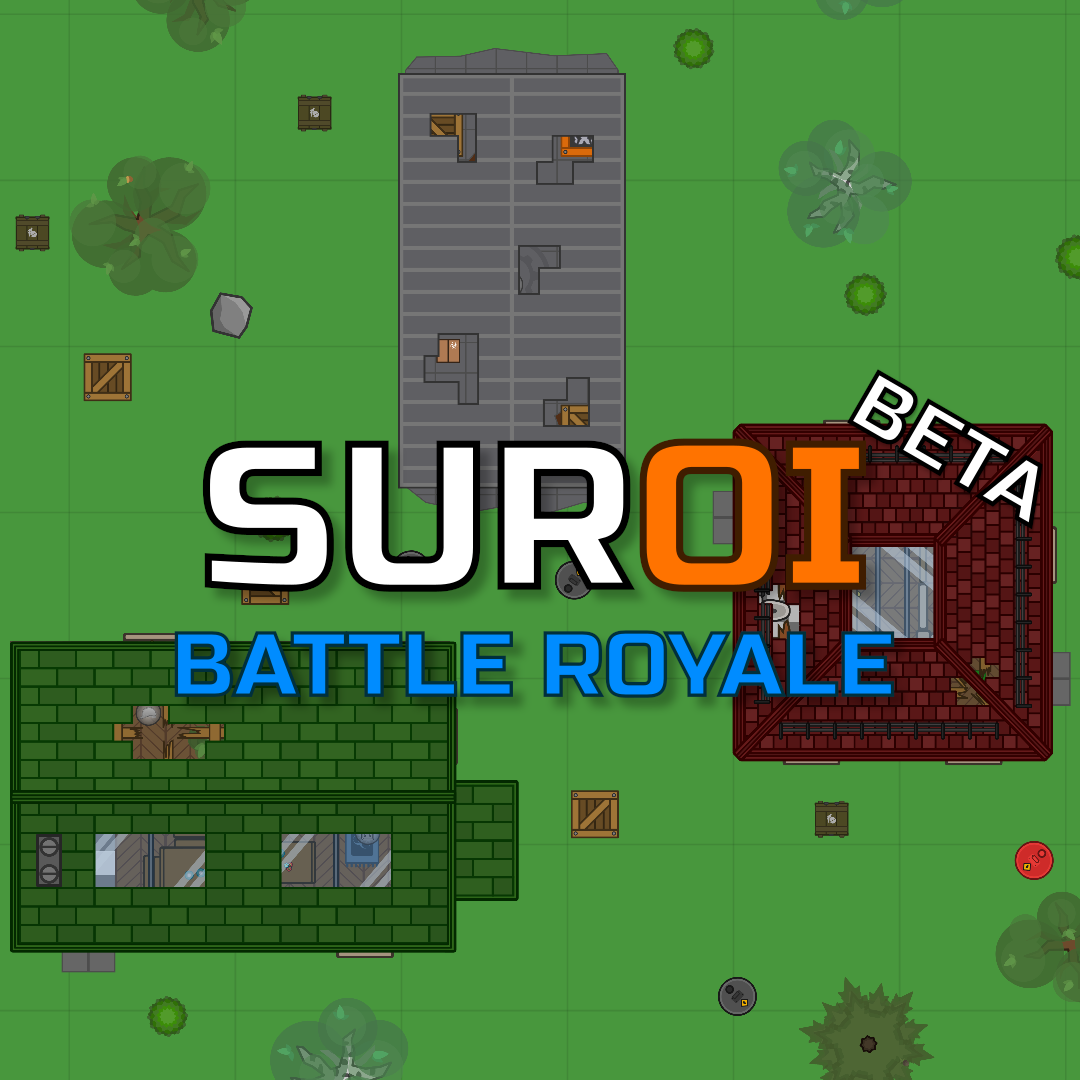
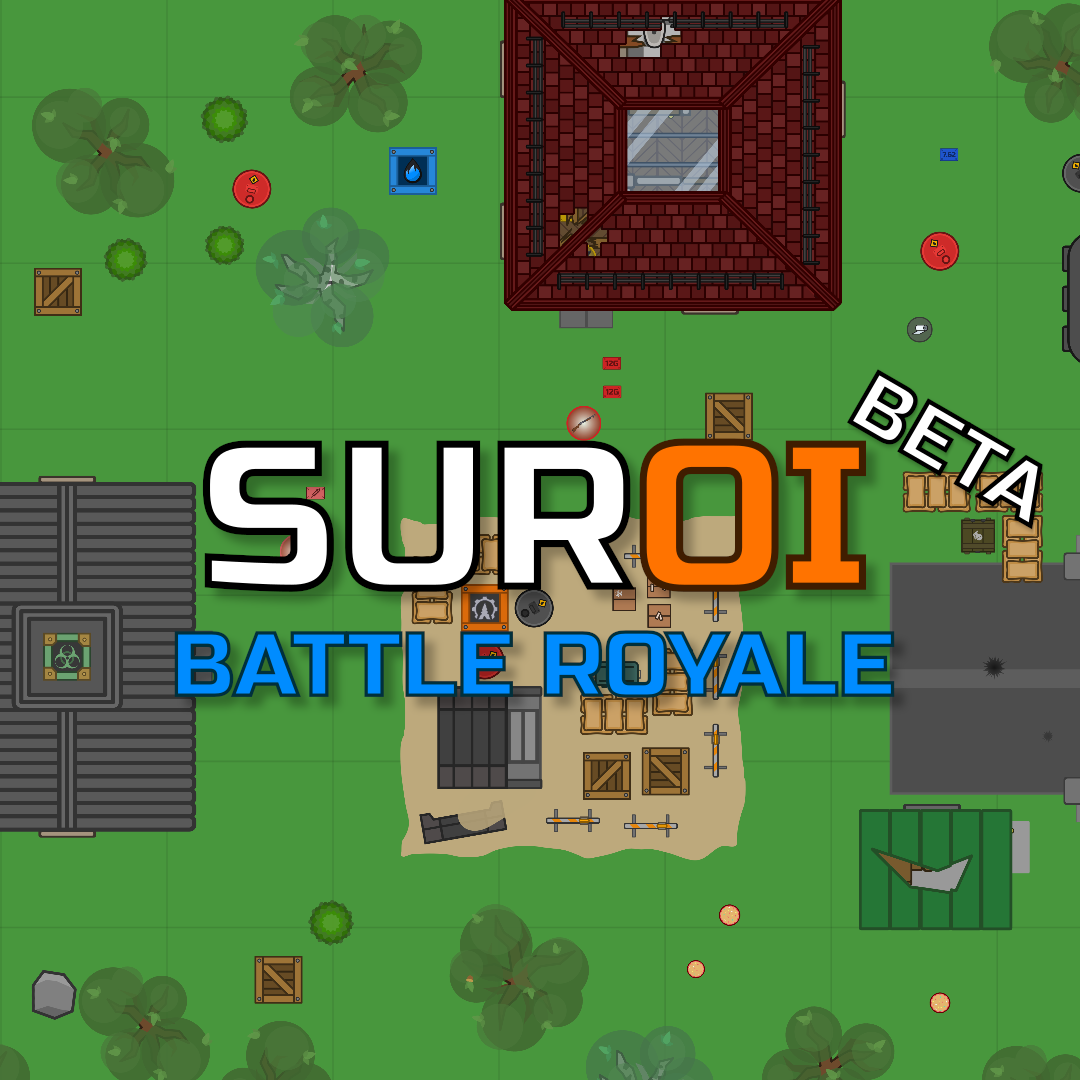
feat: update backgrounds & news

diff --git a/client/src/scripts/news/newsPosts.ts b/client/src/scripts/news/newsPosts.ts
@@ -1,6 +1,58 @@
 import { type NewsPost } from "./newsHelper";
 
 export const news: NewsPost[] = [
+  {
+    date: 1717870665000,
+    author: "HAZEL",
+    title: "Back in the Saddle",
+    bannerImage: "../img/news/v0.18.0.png",
+    content: `After a long break, we're back with some important updates and fun changes. Although we're late, we're celebrating Suroi's 1 year birthday with some new items, and even more exciting, limited edition squads.<br><br>
+
+    A revamped moderation system is here to combat those cheater pests with improved efficiency. Say hello to our new Game Moderatrs on Discord!<br><br>
+
+    There's also a new structure, the large bridge. While huge in proportion, it offers plenty of cover and close quarter combat. It's also a perfect spot to set up your squad in a defensive position!<br><br>
+
+    Lots of changes and bug fixes have made it into this update, so check out the full log. Thank you everyone for sticking with us!`,
+    longContent: `<h2>Suroi v0.18.0</h2>
+<h3>New features</h3>
+<ul>
+  <li><strong>Squads!</strong> To celebrate Suroi's 1st birthday, squads will be available for the next week only. They will be back once we have enough players.</li>
+  <li><strong>New structures!</strong> Added the large bridge and the construction site.</li>
+  <li><strong>Birthday exclusive items!</strong> Added the birthday cake skin and obstacle, firework launcher, confetti grenade, and firework warehouse. Like squads, they will be available for the next week only.</li>
+  <li><strong>Better moderation system!</strong> We now have a dedicated team of Game Moderatrs. They will manage #cheatr-reports using a new Discord bot.</li>
+  <ul>
+    <li>In the future, we are planning on moving to a more self-contained report system that doesn't rely on Discord.</li>
+  </ul>
+  <li>Added a new skin and 5 new emotes.</li>
+  <li>Added crawling animation for knocked out players.</li>
+  <li>Added inventory slot animations.</li>
+  <li>Added emote categories.</li>
+</ul>
+
+<h3>Changes</h3>
+<ul>
+  <li>New Mosin top down.</li>
+  <li>New ammo crate, forklift, pallet, couch, and life preserver textures.</li>
+  <li>Improved mobile and spectate controls.</li>
+  <li>Improved loot physics.</li>
+  <li>Badges now display next to names when spectating.</li>
+  <li>Adjusted the length of some reload sounds.</li>
+  <li>Changed the way updates from the server are handled, which should improve smoothness.</li>
+  <li>Added LMGs to briefcase loot table.</li>
+  <li>Adjusted pine tree hitbox.</li>
+  <li>The kill feed is now hidden when the map is open.</li>
+</ul>
+
+<h3>Bug fixes</h3>
+<ul>
+  <li>Fixed issues with team pings.</li>
+  <li>Fixed badges.</li>
+  <li>Fixed infinite health by spamming healing items while knocked out.</li>
+  <li>Fixed team emotes working in solo.</li>
+  <li>Fixed players not rendering correctly after being revived.</li>
+  <li>Fixed drop sound not playing when dropping weapons with fists equipped.</li>
+</ul>`
+    },
     {
         date: 1711917946000,
         author: "HAZEL",
@@ -110,12 +162,12 @@ There are a bunch more new features to check out, such as a new port layout (inc
         longContent: `<h2>Suroi v0.15.0</h2>
 <h3>New features</h3>
 <ul>
-  <li>**Throwables!** Added frag grenades and smoke grenades. Other throwables, like mines and MIRV equivalents, will be added in a future update.</li>
-  <li>**New structures!** Added the armory and mobile home.</li>
-  <li>**New guns!** Added the Vector (an SMG), and the Vepr-12 (a full auto shotgun; equivalent to surviv's Saiga-12).</li>
-  <li>**Updated port!** The port is now smaller, and a new type of ship, the oil tanker, has a 50% chance of spawning in place of the normal ship.</li>
-  <li>**New melees!** Added the maul (a heavy hammer), and the seax (a Viking dagger).</li>
-  <li>**New UI layout!** The UI has been overhauled.</li>
+  <li><strong>Throwables!</strong> Added frag grenades and smoke grenades. Other throwables, like mines and MIRV equivalents, will be added in a future update.</li>
+  <li><strong>New structures!</strong> Added the armory and mobile home.</li>
+  <li><strong>New guns!</strong> Added the Vector (an SMG), and the Vepr-12 (a full auto shotgun; equivalent to surviv's Saiga-12).</li>
+  <li><strong>Updated port!</strong> The port is now smaller, and a new type of ship, the oil tanker, has a 50% chance of spawning in place of the normal ship.</li>
+  <li><strong>New melees!</strong> Added the maul (a heavy hammer), and the seax (a Viking dagger).</li>
+  <li><strong>New UI layout!</strong> The UI has been overhauled.</li>
   <li>Added river rocks.</li>
   <li>Redesigned 2 skins, and added 6 new ones, 1 of which is airdrop exclusive.</li>
 </ul>
@@ -274,9 +326,9 @@ After checking out these frightening additions, enjoy your candy while reading a
         author: "HAZEL",
         title: "Making Waves",
         bannerImage: "../img/news/v0.11.0.png",
-        content: `The island grows ever busier with the newest structure, the port. Search the warehouses and shipping containers for loot, 'cause they’re packed! Containers can also be found throughout the island. But the most valuable loot is contained in the bow of the massive container ship. A highly prized sniper lies within, but you’ll need to solve a puzzle to get in.<br><br>
+        content: `The island grows ever busier with the newest structure, the port. Search the warehouses and shipping containers for loot, 'cause they're packed! Containers can also be found throughout the island. But the most valuable loot is contained in the bow of the massive container ship. A highly prized sniper lies within, but you'll need to solve a puzzle to get in.<br><br>
 
-If you like swimming, you’re in luck! Rivers now snake through the landscape, and the ocean is now accessible.<br><br>
+If you like swimming, you're in luck! Rivers now snake through the landscape, and the ocean is now accessible.<br><br>
 
 We've added two new guns to our arsenal: the Flues, a sawn-off double-barrel shotgun, and the M1895, a revolver.<br><br>
 
@@ -364,7 +416,7 @@ Special thanks to Leia and platonthek. This update wouldn't have been possible w
         author: "HAZEL",
         title: "Behind Closed Doors",
         bannerImage: "../img/news/v0.9.0.png",
-        content: `We at HAZEL are proud to announce the construction of 3 new structures on the island. The cozy house is a great place to spend the night…although you’ll want to leave before the gas catches you. The warehouse, though abandoned, still contains some unopened shipments, just waiting to be looted. Lastly, if you need to do some “business”, there are plenty of porta potties around for that purpose.<br><br>
+        content: `We at HAZEL are proud to announce the construction of 3 new structures on the island. The cozy house is a great place to spend the night…although you'll want to leave before the gas catches you. The warehouse, though abandoned, still contains some unopened shipments, just waiting to be looted. Lastly, if you need to do some “business”, there are plenty of porta potties around for that purpose.<br><br>
 
 There are also two new Austrian arrivals to the island. Like the Micro Uzi but want something that packs more of a punch? The Steyr AUG might be for you. If you prefer a challenge, grab the all-new full auto pistol, the CZ-75A.<br><br>
 
@@ -503,7 +555,7 @@ Surians can now customize their skins, and express themselves with emotes too! E
         author: "Dr. Petrova",
         title: "Doublet State",
         bannerImage: "../img/news/v0.3.0.png",
-        content: "A mysterious orange gas is now being reported around the island. We collected a sample and were able to convert it to a solid at -9.3°C, but found it to be very toxic. You’ve been warned! In other news, if you’re the last one on the island left, you’ll get your very own chicken dinner courtesy of HAZEL, the perfect meal to enjoy your victory!",
+        content: "A mysterious orange gas is now being reported around the island. We collected a sample and were able to convert it to a solid at -9.3°C, but found it to be very toxic. You've been warned! In other news, if you're the last one on the island left, you'll get your very own chicken dinner courtesy of HAZEL, the perfect meal to enjoy your victory!",
         longContent: `<h2>Suroi v0.3.0</h2>
 <h3>New features</h3>
 <ul>

diff --git a/client/changelog/index.html b/client/changelog/index.html
@@ -29,6 +29,33 @@
   <pre>
 # Changelog
 
+v0.18.0 - [6/8/2024]
+- Temporarily added squads
+- Added large bridge and construction site
+- Added birthday cake skin and obstacle, firework launcher, confetti grenade, and firework warehouse
+- Improved moderation system
+- Added watermelon skin
+- Added Muller, Hi5, fake, hack = ban, and colon three emotes
+- Added crawling animation for knocked out players
+- Added inventory slot animations
+- Added emote categories
+- New Mosin top down
+- New ammo crate, forklift, pallet, couch, and life preserver textures
+- Improved mobile and spectate controls
+- Improved loot physics
+- Badges now display next to names when spectating
+- Adjusted the length of some reload sounds
+- Changed the way updates from the server are handled, which should improve smoothness
+- Added LMGs to briefcase loot table
+- Adjusted pine tree hitbox
+- Kill feed is now hidden when map is open
+- Fixed issues with team pings
+- Fixed badges
+- Fixed infinite health by spamming healing items while knocked out
+- Fixed team emotes working in solo
+- Fixed players not rendering correctly after being revived
+- Fixed drop sound not playing when dropping weapons with fists equipped
+
 v0.17.1 - [4/20/2024]
 - The game now switches between solos and duos every 24 hours
 - Buildings now spawn more evenly throughout the map

diff --git a/server/src/data/maps.ts b/server/src/data/maps.ts
@@ -72,7 +72,7 @@ const maps = {
             firework_warehouse: 1, // 1y bday building
             green_house: 2,
             red_house: 6,
-            construction_site: 2,
+            construction_site: 1,
             mobile_home: 9,
             porta_potty: 12,
             container_3: 2,
